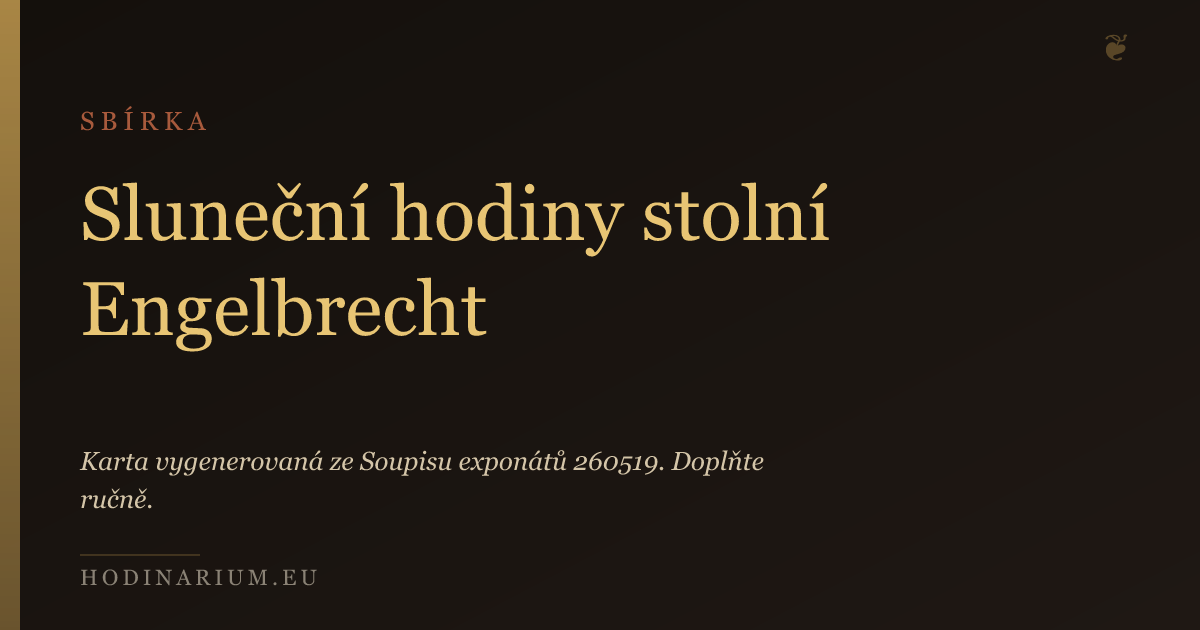
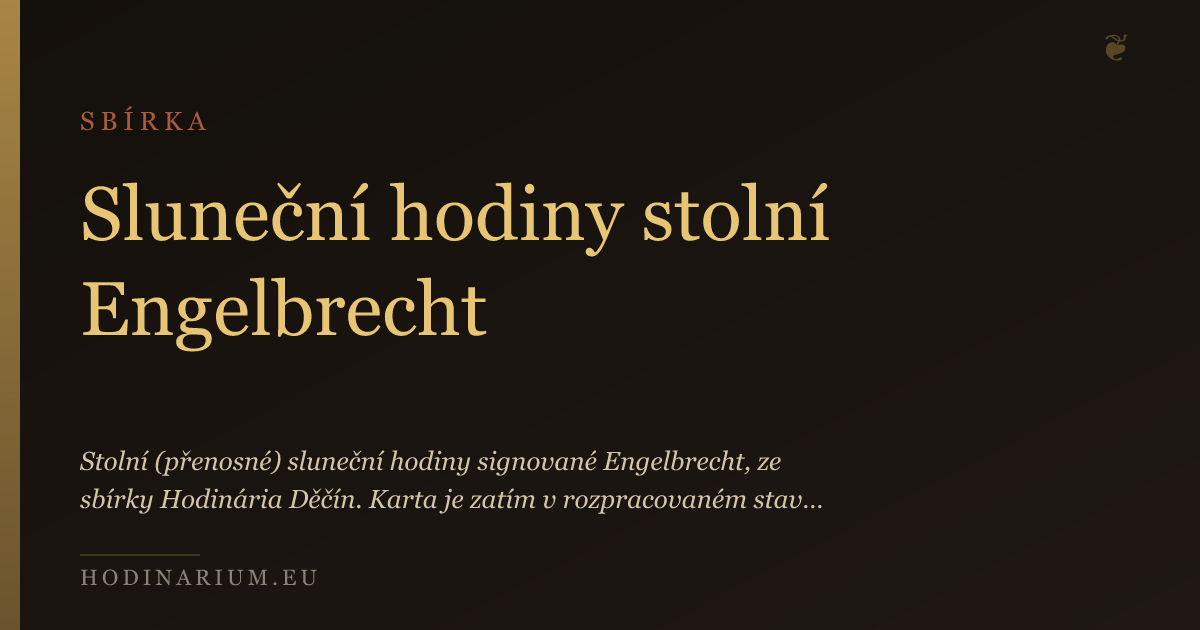
content(hodinari): Engelbrechtové z Berouna — medailon dynastie (A.36.5)
Dvougenerační hodinářská dílna Engelbrechtů z Berouna (1773–1831)
podle Patrik Pařízek, "Nové poznatky o hodinách berounských
Engelbrechtů" (Rozpravy NTM 2015, s. 271–282).

- `content/hodinari/engelbrechtove-beroun.mdx` — nový medailon dynastie
  (typ: [osoba, firma]), obě generace s technickými detaily:
  - Johann Engelbrecht (~1725–1807): zakladatel, bývalý plukovní
    hobojista, doložen tištěným manuálem 1776 (Beroun, Kn 206),
    doporučení Hella, Hindenburga, Strnada, Steplinga (Klementinum).
    Horizontální / inklinační / analematické sluneční hodiny.
  - Anton Engelbrecht (1780–1831): syn, převzal dílnu 1808 a
    přestěhoval do Mělníka. Vedle slunečních hodin dva dochované
    exempláře skříňkových mechanických hodin (Beroun + NPÚ Manětín).
  - 9 references (Pařízek 2015 a 2011 DP, Zahradník 2006, Polák
    1990 a 1981, Fischer 1963 a 1979, Lenfeld 1984, Tošnerová 2008).
  - Cite block před perex podle Patrikovy konvence.

- `apps/hodinarium-eu/src/data/hodinari.ts` — entry
  engelbrechtove-beroun (typ: ['osoba', 'firma'], era: baroko)
  + Patrik medailon s odkazem na dynastii v shrnuti.

- `content/hodinarium-eu/inv-A88-slunecni-hodiny-stolni-engelbrecht.md`
  — karta obohacena o `karta.hodinar: engelbrechtove-beroun`,
  reference na Pařízek 2015, kontext atribuce a tipy pro
  identifikaci podle Patrikovy typologie (rozlišení od falz).

- OG images: engelbrechtove-beroun.png + A88 re-render.

Changed region(s): [[0.0617, 0.6937, 0.6783, 0.8143]]

diff --git a/apps/hodinarium-eu/src/data/hodinari.ts b/apps/hodinarium-eu/src/data/hodinari.ts
@@ -2346,9 +2346,22 @@ export const hodinari: Hodinar[] = [
     mesto: 'Olomouc / Praha',
     zeme: 'CZ',
     shrnuti:
-      'Badatel a historik hodinářství, absolvent FF UP Olomouc. Autor diplomové práce [*České a moravské historické hodiny 18. a 19. století*](https://theses.cz/id/i6oavl) (2022, 607 s.). Aktivní člen [Českého spolku horologického](/o-hodinariu) od roku 2021, distributor Zpravodaje SPSH, autor článků o hodinářské dynastii [Engelbrechtů z Berouna](/hodinari/patrik-parizek), mechanických automatofonech, astronomických a geografických hodinách a hodinách jako mediu.',
-    relatedSlugs: [],
+      'Badatel a historik hodinářství, absolvent FF UP Olomouc. Autor diplomové práce [*České a moravské historické hodiny 18. a 19. století*](https://theses.cz/id/i6oavl) (2022, 607 s.) a monografického zpracování [Engelbrechtů z Berouna](/hodinari/engelbrechtove-beroun) (DP 2011, Rozpravy NTM 2015). Aktivní člen [Českého spolku horologického](/o-hodinariu) od roku 2021, distributor Zpravodaje SPSH.',
+    relatedSlugs: ['engelbrechtove-beroun'],
     era: 'soucasnost',
+  },
+  {
+    slug: 'engelbrechtove-beroun',
+    jmeno: 'Engelbrechtové z Berouna',
+    aliasy: ['Engelbrechtové', 'Johann Engelbrecht', 'Anton Engelbrecht', 'Engelpreht', 'Engelpracht', 'berounští Engelbrechtové'],
+    typ: ['osoba', 'firma'],
+    obdobi: '1773–1831',
+    mesto: 'Beroun (od 1808 Mělník)',
+    zeme: 'CZ',
+    shrnuti:
+      'Dvougenerační hodinářská dílna v Berouně (1773–1808) a v Mělníku (1808–1831). Zakladatel Johann Engelbrecht (~1725–1807) byl bývalý plukovní hobojista, jehož přenosné sluneční hodiny získaly evropské renomé (Maximilian Hell, pražské Klementinum). Syn Anton Engelbrecht (1780–1831) převzal dílnu, přestěhoval ji do Mělníka a kromě rytectví slunečních hodin se proslavil jako mechanik dvou dochovaných skříňkových hodin (NTM Praha, NPÚ Manětín). Pramen: [Patrik Pařízek 2015](/hodinari/patrik-parizek).',
+    relatedSlugs: ['patrik-parizek'],
+    era: 'baroko',
   },
   {
     slug: 'frantisek-donat-nymburk',

diff --git a/content/hodinarium-eu/inv-A88-slunecni-hodiny-stolni-engelbrecht.md b/content/hodinarium-eu/inv-A88-slunecni-hodiny-stolni-engelbrecht.md
@@ -7,15 +7,52 @@ originalUrl: "https://hodinarium-eu.pages.dev/sbirka/katalog"
 lastModified: null
 sourceCharset: "utf-8"
 scrapedAt: "2026-05-21T00:00:00.000Z"
-manualEdit: false
+manualEdit: true
 author: "Český spolek horologický"
 tags:
   - vitrina-1-hlavni
 karta:
   inventarniCislo: "A88"
   umisteni: "Vitrína 1 (Sál věžních hodin)"
+  hodinar: "engelbrechtove-beroun"
+references:
+  - title: "Nové poznatky o hodinách berounských Engelbrechtů"
+    autor: "Patrik Pařízek"
+    rok: 2015
+    type: clanek
+    note: "Rozpravy NTM: Z dějin geodézie a kartografie. Praha: Národní technické muzeum, 2015, s. 271–282."
 ---
 
-## Stub karty
+## Stručně
 
-Karta vygenerovaná ze Soupisu exponátů 260519. Doplňte ručně.
+Stolní (přenosné) sluneční hodiny signované **Engelbrecht**, ze sbírky
+[Hodinária Děčín](/o-hodinariu). Karta je zatím v rozpracovaném stavu —
+podrobná identifikace přesné varianty a porovnání s typologií podle
+**Patrika Pařízka 2015** ([medailon dynastie](/hodinari/engelbrechtove-beroun))
+je v práci.
+
+## Kontext atribuce
+
+Dílna **[Engelbrechtů z Berouna](/hodinari/engelbrechtove-beroun)** byla
+činná v letech **1773–1831** ve dvou generacích:
+
+- **Johann Engelbrecht (~1725–1807)** — zakladatel, Beroun. Vyráběl
+  zejména horizontální, polární, rovníkové a nástěnné sluneční hodiny,
+  doložen i tištěným manuálem (Beroun, Muzeum Českého krasu, Kn 206).
+- **Anton Engelbrecht (1780–1831)** — syn, od 1808 v Mělníku. Inklinační
+  a kombinované inklinační–analematické sluneční hodiny, vedle nich
+  dva exempláře mechanických skříňkových hodin (NTM Praha, NPÚ Manětín).
+
+Pro identifikaci konkrétního exempláře A88 je třeba porovnat s typologií
+v Pařízkovi 2015 a Polákovi 1990 — bude doplněno.
+
+## Co lze zjistit při bližší prohlídce
+
+Pařízek (2015) upozorňuje, že **falza** Engelbrechtových hodin se
+poznají podle typických chyb padělatelů:
+
+- nepohyblivý gnómon analematických hodin,
+- použití čtyř stavěcích šroubů namísto tří.
+
+Při příští inventuře doporučujeme tyto detaily zkontrolovat
+a porovnat se signováním v dochovaném manuálu z roku 1776.
